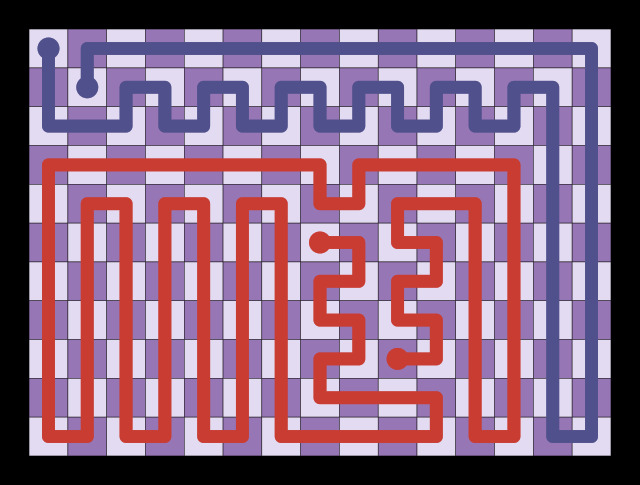
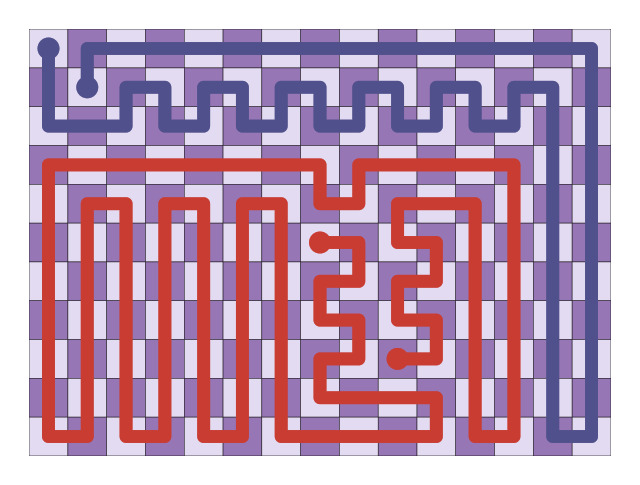
hopefully this does it for the splash screen

Changed region(s): [[0.0, 0.0, 1.0, 1.0]]

diff --git a/README.md b/README.md
@@ -1,8 +1,6 @@
 # Two-colour Zig-Zag Numberlink on rectangles
 
-| |
-|---|
-| ![r2k2zzn 15x11](docs/figures/r2k2zzn_15x11.jpg) |
+![r2k2zzn 15x11](docs/figures/r2k2zzn_15x11.jpg)
 
 Decide and solve two-colour Zig-Zag Numberlink (the paired 2-disjoint path cover problem) on
 rectangular grids: given an R × C grid and endpoints s0, t0 (colour 0) and s1, t1 (colour 1), find
